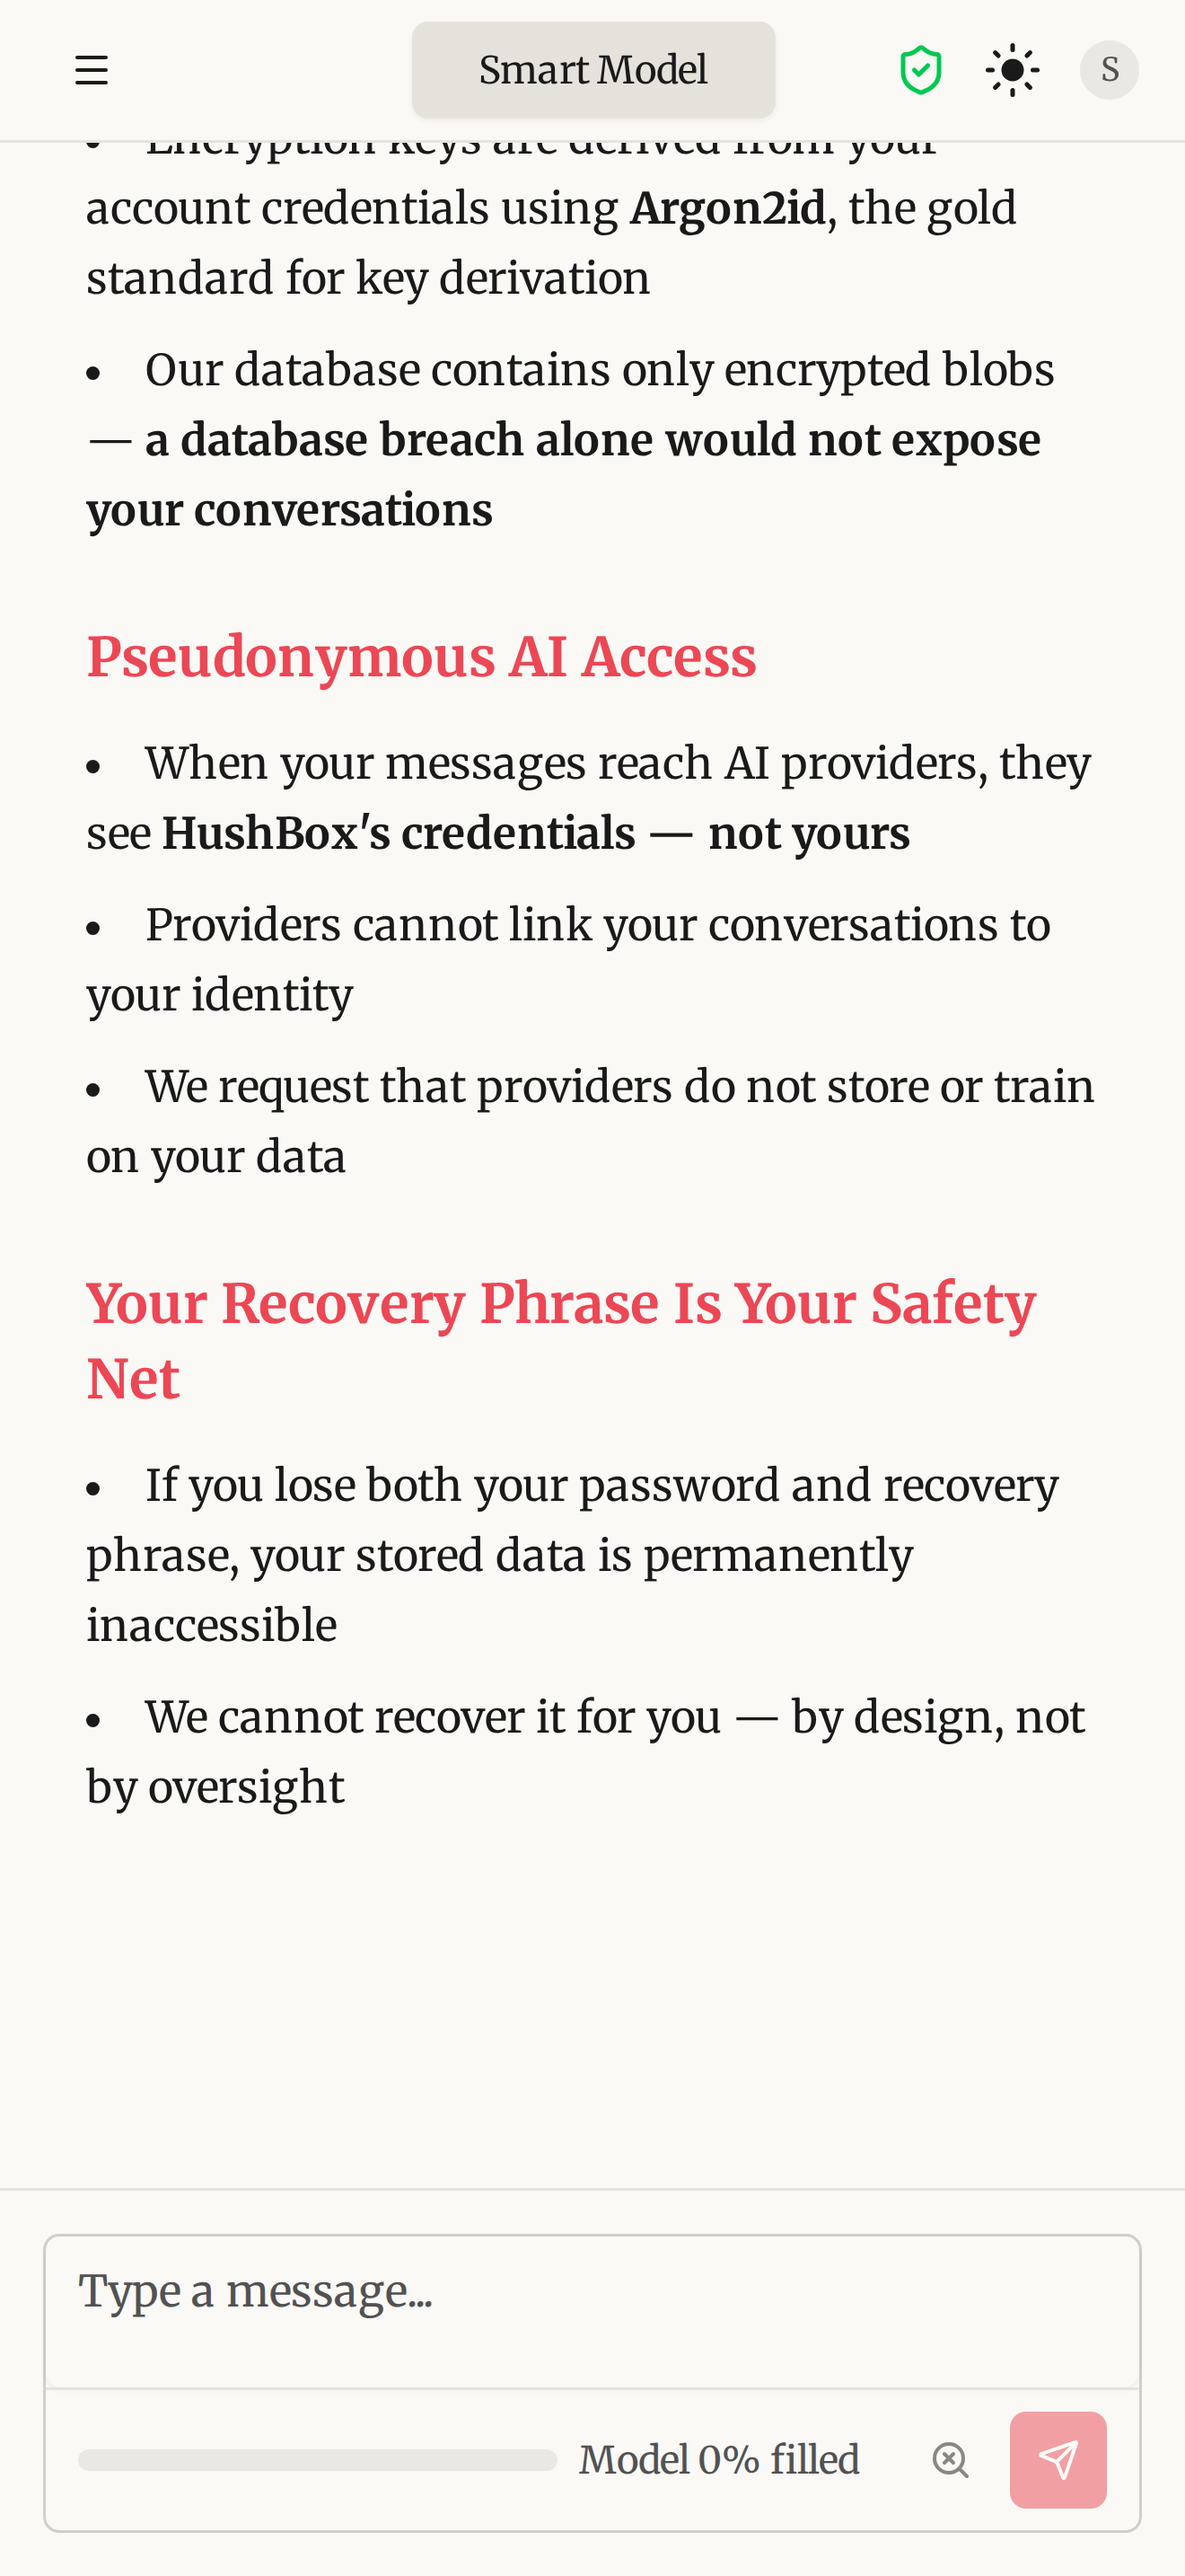
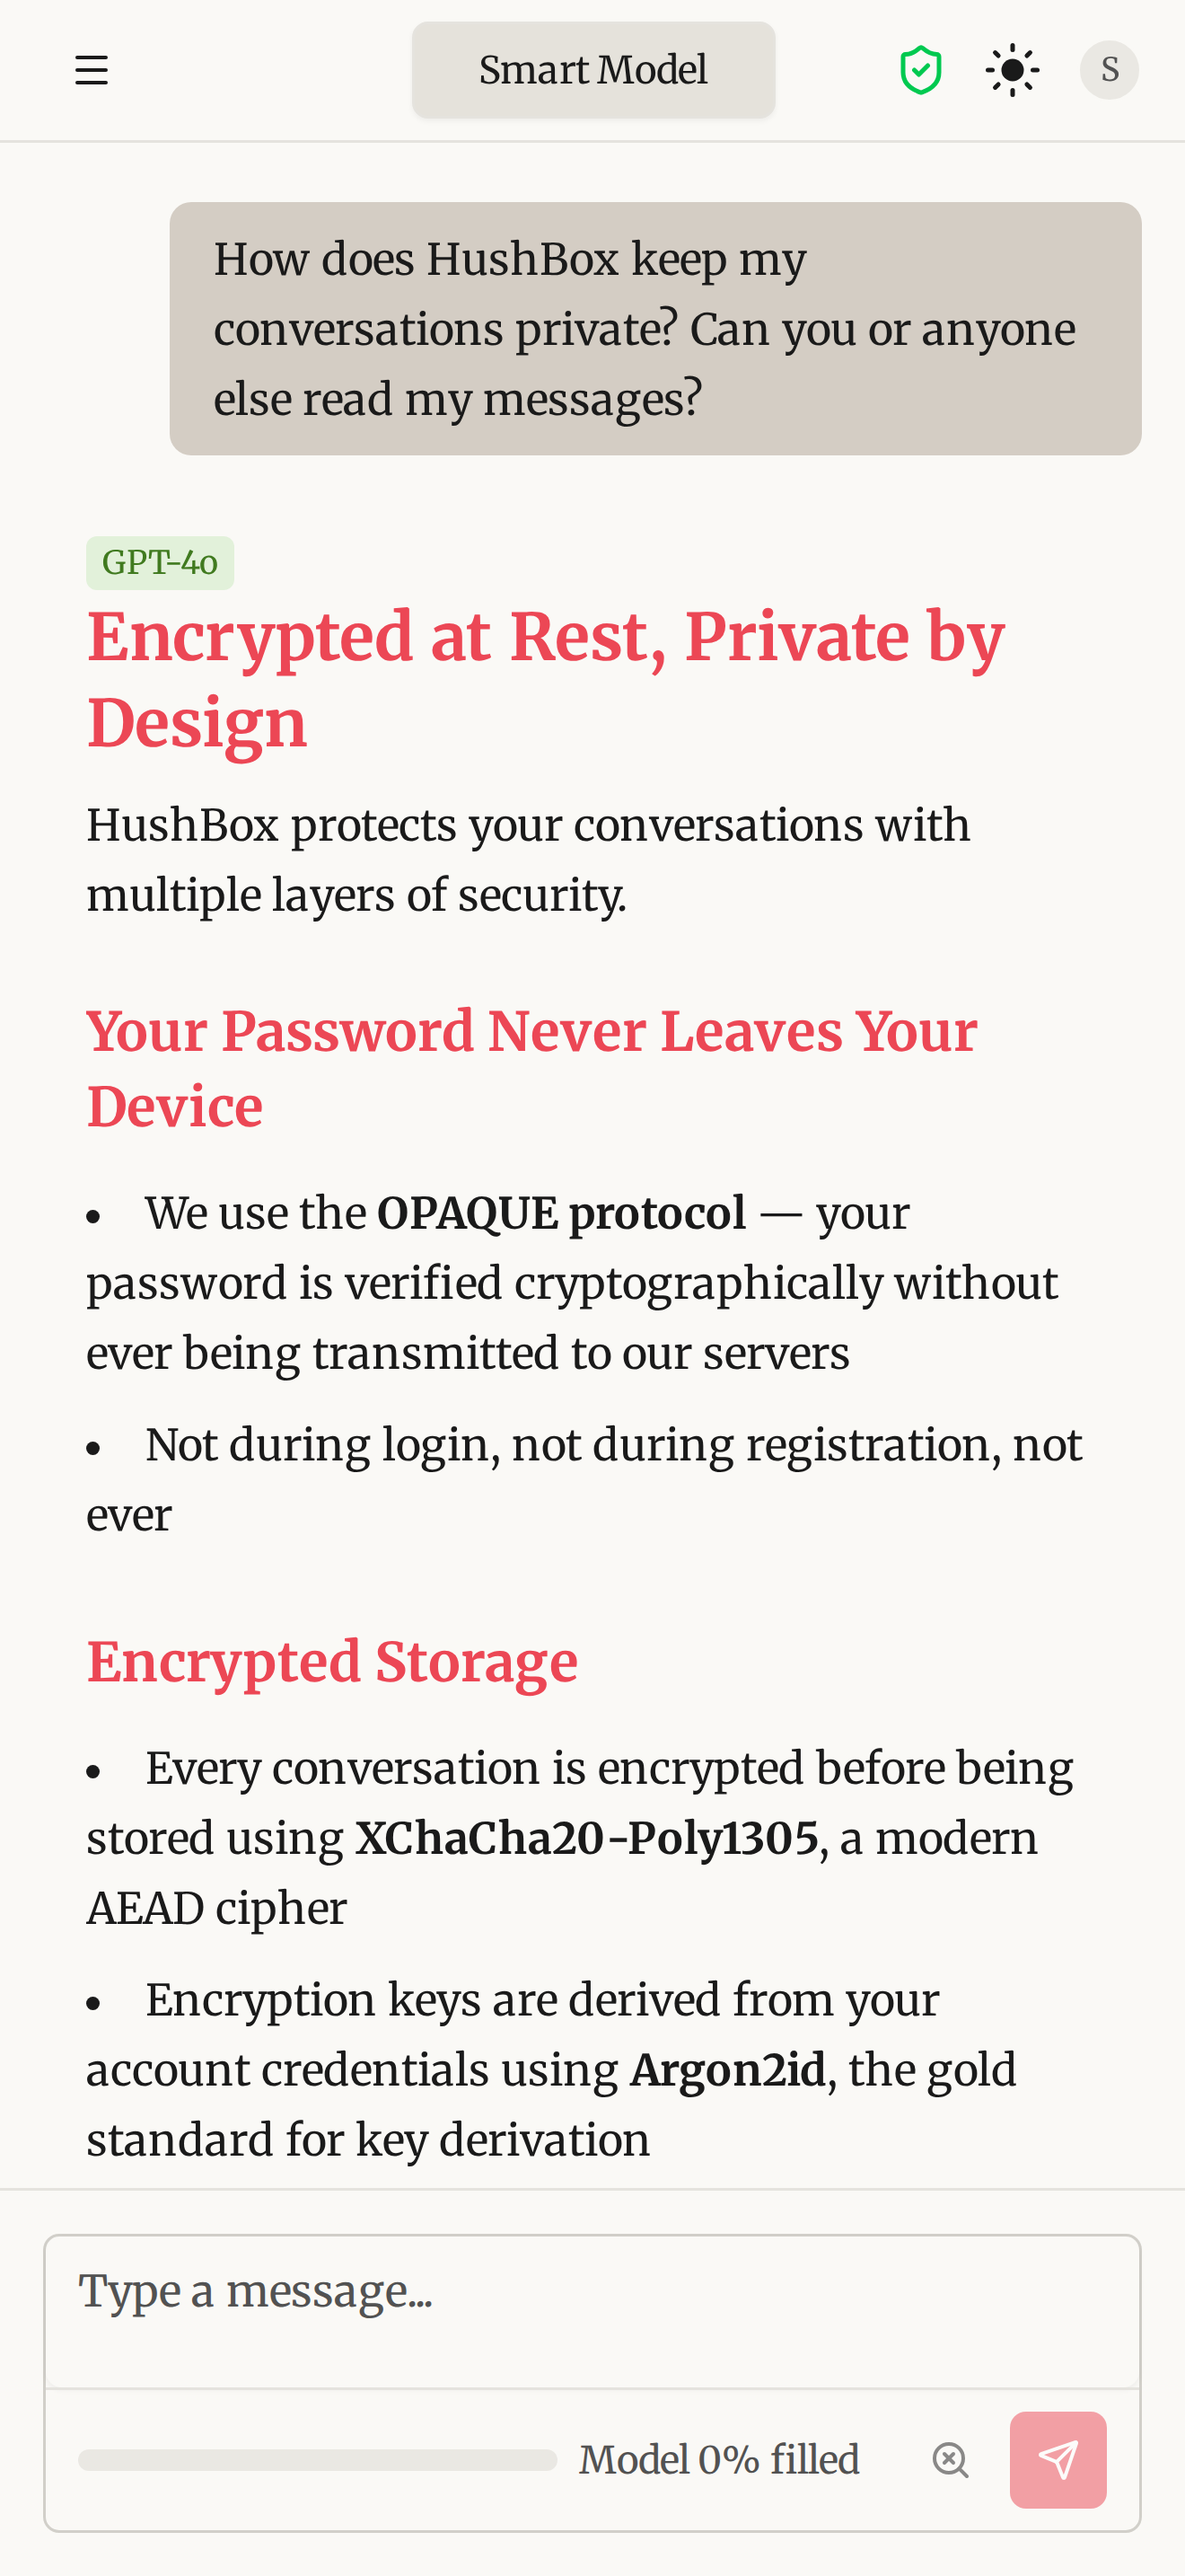
app store screenshot improvements

Changed region(s): [[0.0621, 0.0621, 0.9629, 0.8379]]

diff --git a/scripts/seed.ts b/scripts/seed.ts
@@ -1023,7 +1023,7 @@ export function createScreenshotConversations(
       name: 'mermaid',
       userMessage: 'Show me a simple flowchart for how a user signs up and verifies their email',
       aiMessage:
-        "Here's the signup and email verification flow:\n\n```mermaid\nflowchart TD\n    A[User visits signup page] --> B[Fills in email & password]\n    B --> C[Clicks Sign Up]\n    C --> D[Server creates account]\n    D --> E[Verification email sent]\n    E --> F[User opens email]\n    F --> G[Clicks verification link]\n    G --> H{Token valid?}\n    H -->|Yes| I[Account verified]\n    H -->|No| J[Show error message]\n    I --> K[Redirect to dashboard]\n    J --> L[Resend verification]\n    L --> E\n```\n\nThe key steps are account creation, email delivery, and token validation. The flow handles the unhappy path where the token expires or is invalid by allowing the user to request a new verification email.",
+        "Here's the signup and email verification flow:\n\n```mermaid\nflowchart TD\n    A[User visits signup page] --> B[Fills in email & password]\n    B --> C[Clicks Sign Up]\n    C --> D[Server creates account]\n    D --> E[Verification email sent]\n    E --> F[User opens email]\n    F --> G[Clicks verification link]\n    G --> H{Token valid?}\n    H -->|Yes| I[Account verified]\n    H -->|No| J[Show error message]\n    I --> K[Redirect to dashboard]\n    J --> L[Resend verification]\n    L --> E\n\n    classDef default fill:#faf5ed,stroke:#b5a790,color:#1a1a1a,stroke-width:1.5px\n    classDef accent fill:#ec4755,stroke:#b3323d,color:#ffffff,stroke-width:2.5px\n    classDef decision fill:#fef3c7,stroke:#d97706,color:#78350f,stroke-width:2.5px\n    classDef success fill:#dcfce7,stroke:#16a34a,color:#14532d,stroke-width:2.5px\n    classDef error fill:#fee2e2,stroke:#dc2626,color:#7f1d1d,stroke-width:2.5px\n    classDef info fill:#dbeafe,stroke:#2563eb,color:#1e3a8a,stroke-width:2px\n    class A accent\n    class B,C info\n    class F,G info\n    class H decision\n    class I success\n    class J error\n    class K success\n    class L info\n    linkStyle default stroke:#8a8783,stroke-width:1.75px\n```\n\nThe key steps are account creation, email delivery, and token validation. The flow handles the unhappy path where the token expires or is invalid by allowing the user to request a new verification email.",
     },
     {
       name: 'privacy',

diff --git a/scripts/generate-screenshots.ts b/scripts/generate-screenshots.ts
@@ -131,6 +131,10 @@ async function captureScreenshot(
     storageState: storageStatePath,
     viewport: { width: resolution.cssWidth, height: resolution.cssHeight },
     deviceScaleFactor: resolution.dpr,
+    // Make `(pointer: coarse)` match so useIsTouchDevice() returns true and
+    // overlays render as bottom sheets instead of desktop dialogs.
+    hasTouch: true,
+    isMobile: true,
   });
   const page = await context.newPage();
 
@@ -200,10 +204,16 @@ async function authenticateAsAlice(
  * These run after navigating to the conversation URL.
  */
 async function scrollChatToTop(page: import('playwright').Page): Promise<void> {
-  const messageList = page.getByRole('log', { name: 'Chat messages' });
-  await messageList.evaluate((el: { scrollTop: number }) => {
+  // The role=log wrapper is not the scroller — Virtuoso's viewport is the
+  // inner [data-slot="scroll-area-viewport"] div (see message-list.tsx Scroller).
+  const viewport = page
+    .getByRole('log', { name: 'Chat messages' })
+    .locator('[data-slot="scroll-area-viewport"]');
+  await viewport.evaluate((el: { scrollTop: number }) => {
     el.scrollTop = 0;
   });
+  // Let Virtuoso settle after the scroll before the screenshot is taken.
+  await page.waitForTimeout(100);
 }
 
 async function runScreenshotSetup(
